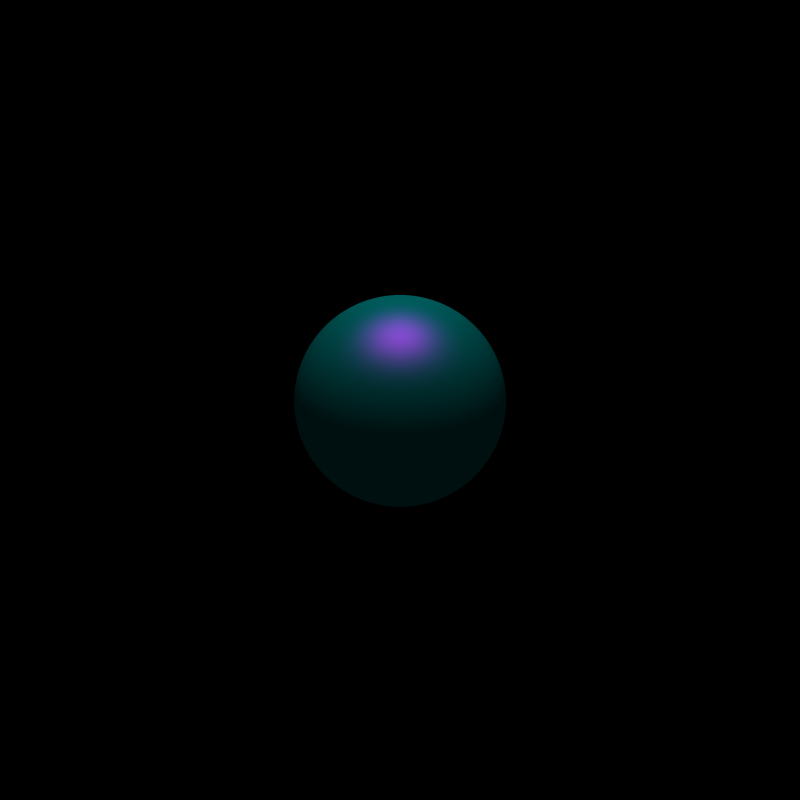
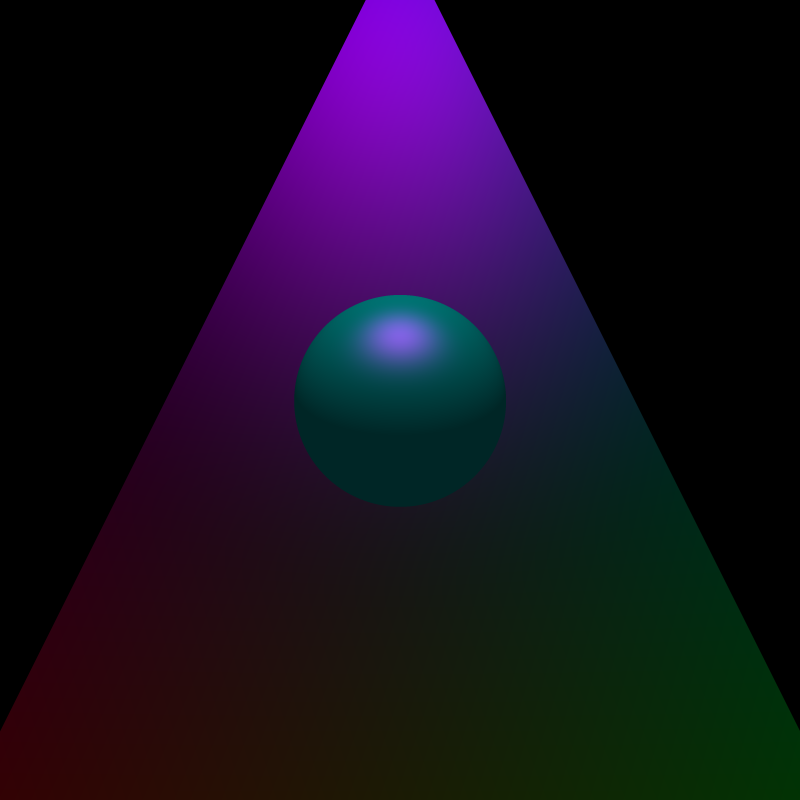
Working triangle intersection

diff --git a/scene.cpp b/scene.cpp
@@ -4,9 +4,10 @@
 using namespace std;
 
 Scene::Scene():
-    shapes(),
+    spheres(),
+    triangles(),
     lights(),
-    ambient(0.2),
+    ambient(0.5),
     aaFactor(4)
 {
     // Set up an array of row pointers for convenience
@@ -20,7 +21,29 @@ Scene::Scene():
                    glm::vec3(0.0, 0.3, 0.3),
                    glm::vec3(0.5, 0.0, 0.5),
                    5);
-    shapes.push_back(sphere1);
+    spheres.push_back(sphere1);
+
+    // Create a triangle
+    Triangle triangle1(
+        Vertex(glm::vec3(-9.0, -9.0, -10.0),
+               glm::vec3(0.0, 0.0, 1.0),
+               glm::vec3(0.3, 0.0, 0.0),
+               glm::vec3(0.5, 0.0, 0.5),
+               glm::vec2(0.5, 0.5),
+               2.0),
+        Vertex(glm::vec3(9.0, -9.0, -10.0),
+               glm::vec3(0.0, 0.0, 1.0),
+               glm::vec3(0.0, 0.3, 0.0),
+               glm::vec3(0.5, 0.0, 0.5),
+               glm::vec2(0.5, 0.5),
+               2.0),
+        Vertex(glm::vec3(0.0, 9.0, -10.0),
+               glm::vec3(0.0, 0.0, 1.0),
+               glm::vec3(0.0, 0.0, 0.3),
+               glm::vec3(0.5, 0.0, 0.5),
+               glm::vec2(0.5, 0.5),
+               2.0));
+    triangles.push_back(triangle1);
 
     // Create a light
     Light light1(glm::vec3(0.0, 10.0, -5.0), glm::vec3(1.0, 1.0, 1.0));
@@ -91,21 +114,46 @@ glm::vec3 Scene::getFragmentColor(glm::vec3 const &eye,
     glm::vec3 normalMin;
     glm::vec3 fragPos;
     glm::vec3 fragPosMin;
+    glm::vec3 diffColor;
+    glm::vec3 specColor;
+    float specCoef;
     float t;
     float tMin = 0xffff;
     int iMin;
     bool intersects = false;
+    bool intersectsSphere = true;
 
-    for(int i = 0; i < shapes.size(); ++i)
+    // Check spheres
+    for(int i = 0; i < spheres.size(); ++i)
     {
-        if(shapes[i].intersects(eye, direction, t, fragPos, normal))
+        if(spheres[i].intersects(eye, direction, t, fragPos, normal))
         {
             if(t < tMin)
             {
                 tMin = t;
-                normalMin = normal;
                 iMin = i;
+                normalMin = normal;
                 fragPosMin = fragPos;
+                intersects = true;
+            }
+        }
+    }
+
+    // Check triangles
+    glm::vec3 baryCoords;
+    glm::vec3 baryCoordsMin;
+    for(int i = 0; i < triangles.size(); ++i)
+    {
+        if(triangles[i].intersects(eye, direction, baryCoords, t, fragPos))
+        {
+            if(t < tMin)
+            {
+                tMin = t;
+                iMin = i;
+                baryCoordsMin = baryCoords;
+                normalMin = triangles[i].getNormal(baryCoords);
+                fragPosMin = fragPos;
+                intersectsSphere = false;
                 intersects = true;
             }
         }
@@ -114,26 +162,46 @@ glm::vec3 Scene::getFragmentColor(glm::vec3 const &eye,
     {
         return glm::vec3(0.0);
     }
+    // Store nearest frag values
+    if(intersectsSphere)
+    {
+        diffColor = spheres[iMin].diffColor;
+        specColor = spheres[iMin].specColor;
+        specCoef  = spheres[iMin].specCoef;
+    }
+    else
+    {
+        diffColor = triangles[iMin].getDiffColor(baryCoordsMin);
+        specColor = triangles[iMin].getSpecColor(baryCoordsMin);
+        specCoef  = triangles[iMin].getSpecCoef(baryCoordsMin);
+        /*cout << "bary: " << baryCoordsMin.x << "," << baryCoords.y << "," <<
+        baryCoordsMin.z << endl;
+        cout << "diff: " << diffColor.x << "," << diffColor.y << "," <<
+        diffColor.z << endl;
+        cout << "spec: " << specColor.x << "," << specColor.y << "," <<
+        specColor.z << endl;
+        cout << "coef: " << specCoef << endl;*/
+    }
 
     glm::vec3 lightDir;
     glm::vec3 fragColor(0.0);
 
     // Ambient
-    fragColor += ambient * shapes[iMin].diffColor;
+    fragColor += ambient * diffColor;
 
     for(int i = 0; i < lights.size(); ++i)
     {
         lightDir = glm::normalize(lights[i].pos - fragPosMin);
 
         // Diffuse
-        fragColor += lights[i].color * shapes[iMin].diffColor *
+        fragColor += lights[i].color * diffColor *
                      glm::max(0.0f, glm::dot(normalMin, lightDir));
         // Specular
-        fragColor += lights[i].color * shapes[iMin].specColor *
+        fragColor += lights[i].color * specColor *
                      glm::pow(glm::max(0.0f,
                          glm::dot(-direction,
                               glm::reflect(-lightDir, normalMin))),
-                              shapes[iMin].specCoef);
+                              specCoef);
     }
 
     return fragColor;

diff --git a/triangle.cpp b/triangle.cpp
@@ -1,0 +1,132 @@
+#include "triangle.h"
+#include "GLM/gtx/intersect.hpp"
+
+Vertex::Vertex(glm::vec3 const &pos,
+               glm::vec3 const &normal,
+               glm::vec3 const &diffColor,
+               glm::vec3 const &specColor,
+               glm::vec2 const &texCoords,
+               float specCoef):
+    pos(pos),
+    normal(normal),
+    diffColor(diffColor),
+    specColor(specColor),
+    texCoords(texCoords),
+    specCoef(specCoef)
+{
+}
+
+Triangle::Triangle(Vertex const &vert1,
+                   Vertex const &vert2,
+                   Vertex const &vert3):
+    vert1(vert1),
+    vert2(vert2),
+    vert3(vert3)
+{
+    // TODO: check if this is the correct direction
+    normal = glm::normalize(
+             glm::cross(vert2.pos - vert1.pos, vert3.pos - vert1.pos));
+    area = glm::dot(
+           glm::cross(vert3.pos - vert2.pos, vert1.pos - vert2.pos ), normal);
+}
+
+// Intersection as described at
+// http://www.cs.washington.edu/education/courses/csep557/10au/lectures/triangle_intersection.pdf
+bool Triangle::intersects(glm::vec3 const &orig,
+                          glm::vec3 const &dir,
+                          glm::vec3 &baryCoords,
+                          float &t,
+                          glm::vec3 &intersection)
+{
+    float nd = glm::dot(normal, dir);
+    // Intersection is at infinity
+    if(nd == 0)
+    {
+        return false;
+    }
+
+    t = (glm::dot(normal, vert1.pos) - glm::dot(normal, orig))/ 
+        nd;
+
+    // If the intersection is behind the ray
+    if(t <= 0)
+    {
+        return false;
+    }
+    
+    // Check that the point is contained in the triangle
+    glm::vec3 q = orig + dir * t;
+    glm::vec3 lengths;
+
+    lengths.x = glm::dot(glm::cross(vert3.pos - vert2.pos, q - vert2.pos),
+                normal); 
+    lengths.y = glm::dot(glm::cross(vert1.pos - vert3.pos, q - vert3.pos),
+                normal); 
+    lengths.z = glm::dot(glm::cross(vert2.pos - vert1.pos, q - vert1.pos),
+                normal);
+    if(lengths.x < 0)
+    {
+        return false;
+    }
+    if(lengths.y < 0)
+    {
+        return false;
+    }
+    if(lengths.z < 0)
+    {
+        return false;
+    }
+
+    // Compute barycentric coods
+    //baryCoords.x = lengths.x / area;
+    //baryCoords.y = lengths.y / area;
+    //baryCoords.z = lengths.z / area;
+
+    baryCoords = lengths / area;
+    
+    intersection = q;
+    return true;
+}
+
+glm::vec3 Triangle::getPos(glm::vec3 const &baryCoords)
+{
+    return vert1.pos * baryCoords.x +
+           vert2.pos * baryCoords.y +
+           vert3.pos * baryCoords.z;
+}
+
+glm::vec3 Triangle::getNormal(glm::vec3 const &baryCoords)
+{
+    return glm::normalize(vert1.normal * baryCoords.x +
+                          vert2.normal * baryCoords.y +
+                          vert3.normal * baryCoords.z);
+}
+
+glm::vec3 Triangle::getDiffColor(glm::vec3 const &baryCoords)
+{
+    return vert1.diffColor * baryCoords.x +
+           vert2.diffColor * baryCoords.y +
+           vert3.diffColor * baryCoords.z;
+}
+
+glm::vec3 Triangle::getSpecColor(glm::vec3 const &baryCoords)
+{
+    return vert1.specColor * baryCoords.x +
+           vert2.specColor * baryCoords.y +
+           vert3.specColor * baryCoords.z;
+}
+
+glm::vec2 Triangle::getTexCoords(glm::vec3 const &baryCoords)
+{
+    return vert1.texCoords * baryCoords.x +
+           vert2.texCoords * baryCoords.y +
+           vert3.texCoords * baryCoords.z;
+}
+
+float Triangle::getSpecCoef(glm::vec3 const &baryCoords)
+{
+    return vert1.specCoef * baryCoords.x +
+           vert2.specCoef * baryCoords.y +
+           vert3.specCoef * baryCoords.z;
+}
+

diff --git a/triangle.h b/triangle.h
@@ -1,0 +1,54 @@
+#ifndef TRIANGLE_H
+#define TRIANGLE_H
+
+#include "GLM/glm.hpp"
+
+class Vertex
+{
+public:
+    glm::vec3 pos;
+    glm::vec3 normal;
+    glm::vec3 diffColor;
+    glm::vec3 specColor;
+    glm::vec2 texCoords;
+    float specCoef;
+
+    Vertex(glm::vec3 const &pos,
+           glm::vec3 const &normal,
+           glm::vec3 const &diffColor,
+           glm::vec3 const &specColor,
+           glm::vec2 const &texCoords,
+           float specCoef);
+};
+
+class Triangle
+{
+public:
+    Vertex vert1;
+    Vertex vert2;
+    Vertex vert3;
+    glm::vec3 normal;
+    float area;
+    
+    Triangle(Vertex const &vert1,
+             Vertex const &vert2,
+             Vertex const &vert3);
+
+    bool intersects(glm::vec3 const &orig,
+                    glm::vec3 const &dir,
+                    glm::vec3 &baryCoords,
+                    float &t,
+                    glm::vec3 &intersection);
+
+    // Accessors via barycentric coords
+    glm::vec3 getPos(glm::vec3 const &baryCoords);
+    glm::vec3 getNormal(glm::vec3 const &baryCoords);
+    glm::vec3 getDiffColor(glm::vec3 const &baryCoords);
+    glm::vec3 getSpecColor(glm::vec3 const &baryCoords);
+    glm::vec2 getTexCoords(glm::vec3 const &baryCoords);
+    float getSpecCoef(glm::vec3 const &baryCoords);
+
+private:
+};
+
+#endif

diff --git a/scene.h b/scene.h
@@ -4,6 +4,7 @@
 #include <vector>
 #include "GLM/glm.hpp"
 #include "sphere.h"
+#include "triangle.h"
 #include "light.h"
 
 #define WIDTH  800
@@ -16,7 +17,8 @@ public:
     void printScenePPM();
 
 private:
-    std::vector<Sphere> shapes;
+    std::vector<Sphere> spheres;
+    std::vector<Triangle> triangles;
     std::vector<Light> lights;
     float image[3 * WIDTH * HEIGHT];
     float *imageRows[HEIGHT];
